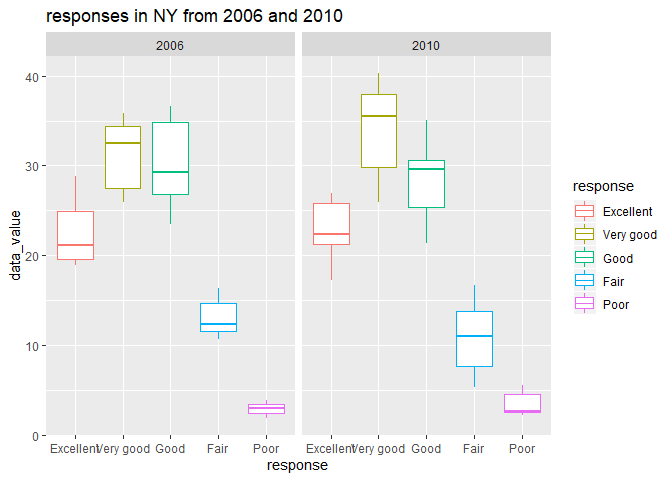
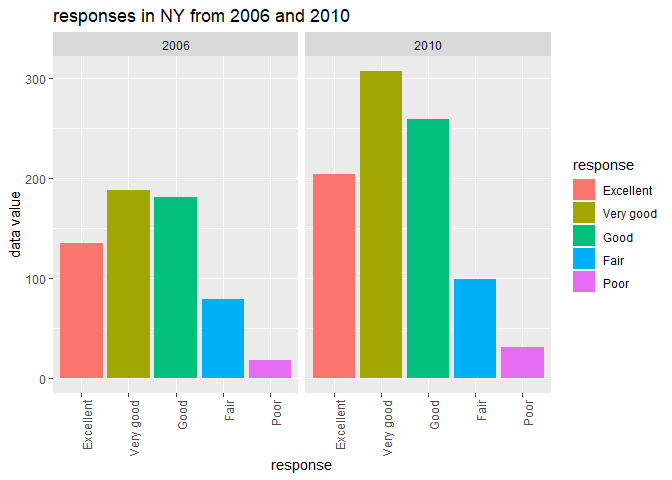
changed bocplots to bar; still trying to figure out finsl plot

diff --git a/p8105_hw3_ilz2105.md b/p8105_hw3_ilz2105.md
@@ -104,11 +104,12 @@ instacart %>%
   filter(
     aisle %in% c("baking ingredients", "dog food care", "packaged vegetables fruits"),
     min_rank(desc(frequency)) <= 3 ) %>% 
-    arrange(frequency, aisle) %>% 
-      knitr::kable(format = 'pandoc', caption = "Popular Aisle Items")
+    arrange(frequency, aisle) %>%
+  rename("product name" = product_name) %>% 
+      knitr::kable(format = 'pandoc', main = "Popular Aisle Items")
 ```
 
-| product\_name                                 | aisle                      | frequency |
+| product name                                  | aisle                      | frequency |
 | :-------------------------------------------- | :------------------------- | --------: |
 | Small Dog Biscuits                            | dog food care              |        26 |
 | Organix Chicken & Brown Rice Recipe           | dog food care              |        28 |
@@ -119,8 +120,6 @@ instacart %>%
 | Organic Blueberries                           | packaged vegetables fruits |      4966 |
 | Organic Raspberries                           | packaged vegetables fruits |      5546 |
 | Organic Baby Spinach                          | packaged vegetables fruits |      9784 |
-
-Popular Aisle Items
 
 Below I made a table showing the mean hour of the day at which Pink Lady
 Apples and Coffee Ice Cream are ordered on each day of the week.
@@ -147,10 +146,11 @@ filter(
   pivot_wider(
     names_from = "day",
     values_from = "mean_hour") %>% 
+  rename("product name" = product_name) %>% 
   knitr::kable(format = 'pandoc', main = "mean hour")
 ```
 
-| product\_name    |   Sunday |   Monday |  Tuesday | Wednesday | Thursday |   Friday | Saturday |
+| product name     |   Sunday |   Monday |  Tuesday | Wednesday | Thursday |   Friday | Saturday |
 | :--------------- | -------: | -------: | -------: | --------: | -------: | -------: | -------: |
 | Coffee Ice Cream | 13.77419 | 14.31579 | 15.38095 |  15.31818 | 15.21739 | 12.26316 | 13.83333 |
 | Pink Lady Apples | 13.44118 | 11.36000 | 11.70213 |  14.25000 | 11.55172 | 12.78431 | 11.93750 |
@@ -268,11 +268,17 @@ excellent = brfss %>%
   filter(response == "Excellent") %>% 
   group_by(year, state) %>%
   summarize(
-  average = mean(data_value)) %>% 
-  ggplot(aes(x = year, y = average, group = state)) +
-  geom_line(aes(color = state)) +
-  labs(title = "Excellent responses over state")
-
+  average = mean(data_value)) %>%
+  select(year, state, average) %>% 
+  distinct() %>% 
+  ggplot(aes(x = year, y = average)) +
+  geom_line(aes( group = state, color = state)) +
+  labs(title = "'Excellent' responses over state",
+       x = "year",
+       y = "average %")+
+  scale_y_continuous( breaks = c(10,20, 30),
+                      labels = c("10", "20", "30"),
+                      limits = c(10,30))
 excellent
 ```
 
@@ -285,15 +291,18 @@ distribution of data\_value for responses (“Poor” to “Excellent”) among
 locations in NY State.
 
 ``` r
-#make a two-panel plot
+#make a to panel plot
 year_2006_2010 = brfss %>% 
 filter(
   year %in% c( "2006","2010"), state == "NY") %>% 
-  #filter(state == "NY") %>% 
-ggplot(aes(x = response, y = data_value, group = response)) +
-  geom_boxplot(aes(color = response))+
+  select(year, state, county, response, data_value) %>% 
+ggplot(aes(x = response, y = data_value, fill = response)) +
+  geom_bar(stat = "identity") +
   facet_grid(~year)+
-  labs(title = "responses in NY from 2006 and 2010")
+  labs(title = "responses in NY from 2006 and 2010",
+       x = "response",
+       y = "data value")+
+  theme(axis.text.x = element_text(angle = 90,  hjust = 1))
 year_2006_2010
 ```
 
@@ -302,12 +311,6 @@ year_2006_2010
 |               |
 | ------------- |
 | **Problem 3** |
-
-Load, tidy, and otherwise wrangle the data. Your final dataset should
-include all originally observed variables and values; have useful
-variable names; include a weekday vs weekend variable; and encode data
-with reasonable variable classes. Describe the resulting dataset
-(e.g. what variables exist, how many observations, etc).
 
 ``` r
 # load data
@@ -379,11 +382,10 @@ accel
 tidy_accel = accel %>% 
   janitor::clean_names() %>% 
   mutate(
-    new_day = if_else(day %in% c("Monday", "Tuesday", "Wednesday", "Thursday", "Friday"), "weekday", day),
+    new_day = if_else(day %in% c("Monday", "Tuesday", "Wednesday",  "Thursday", "Friday"), "weekday", day),
     new_day = if_else(day %in% c("Saturday", "Sunday"), "weekend", new_day)
   ) %>% 
 select(week, day_id, day, new_day, activity_1:activity_1440)
-  
   
 tidy_accel
 ```
@@ -478,7 +480,10 @@ Above, I created a new variable `new_day` that tells me whether the
 `day` is a `weekend` or `weekday`. I kept all of the original columns,
 and did not choose to `pivot_longer` here because I wanted to be able to
 read my table by `day_id`. There are 35 rows and 1444 columns in
-`accel`.
+`accel`. The data shows activity over 24 hours for 35 days or 5 weeks.
+It goes from `activity_1` to `activity_1440` for every minute of the
+day, which I later condensed after `pivot_longer` into one column called
+`day_activity`.
 
 Using my tidied dataset, I aggregated accross minutes to create a total
 activity variable for each day, and create a table showing these totals.
@@ -566,8 +571,7 @@ up the xaxis and separate by days.
 ``` r
 #plot  attempt 
 activity_plot = tidy_accel_2 %>% 
-  select(week, day, day_id, day_activity, counts) %>% 
-group_by(week, day, day_id) %>% 
+group_by(week, day, day_id, day_activity, counts) %>% 
   ggplot(aes(x = day_activity, y = counts, group = week , color = day))+
   geom_line()+
   scale_x_continuous(
@@ -576,8 +580,7 @@ group_by(week, day, day_id) %>%
     
    labels = c("1" , "2" , "3", "4", "5", "6", "7", "8", "9", "10", "11", "12", "13",
               "14", "15", "16", "17", "18", "19", "20", "21", "22", "23", "24"),
-    limits = c(0, 1440)
-  ) +
+    limits = c(0, 1440)) +
   theme(axis.text.x = element_text(angle = 90, hjust = 1, vjust = 0.5))+
   labs(title = "Activity over 24 hours ")
 
